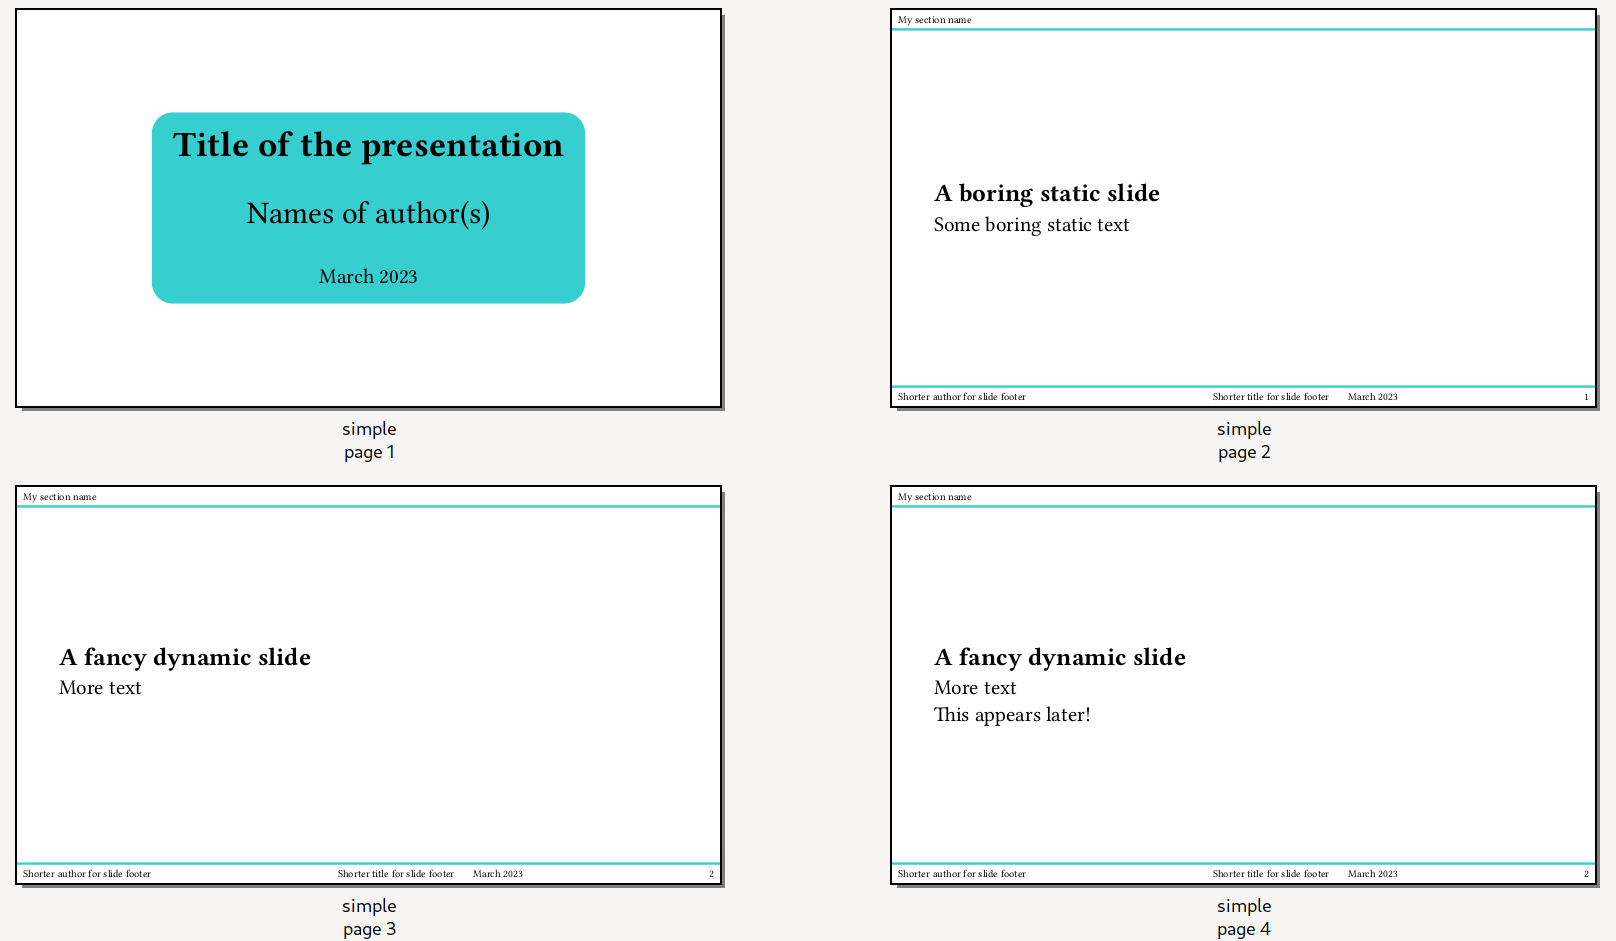
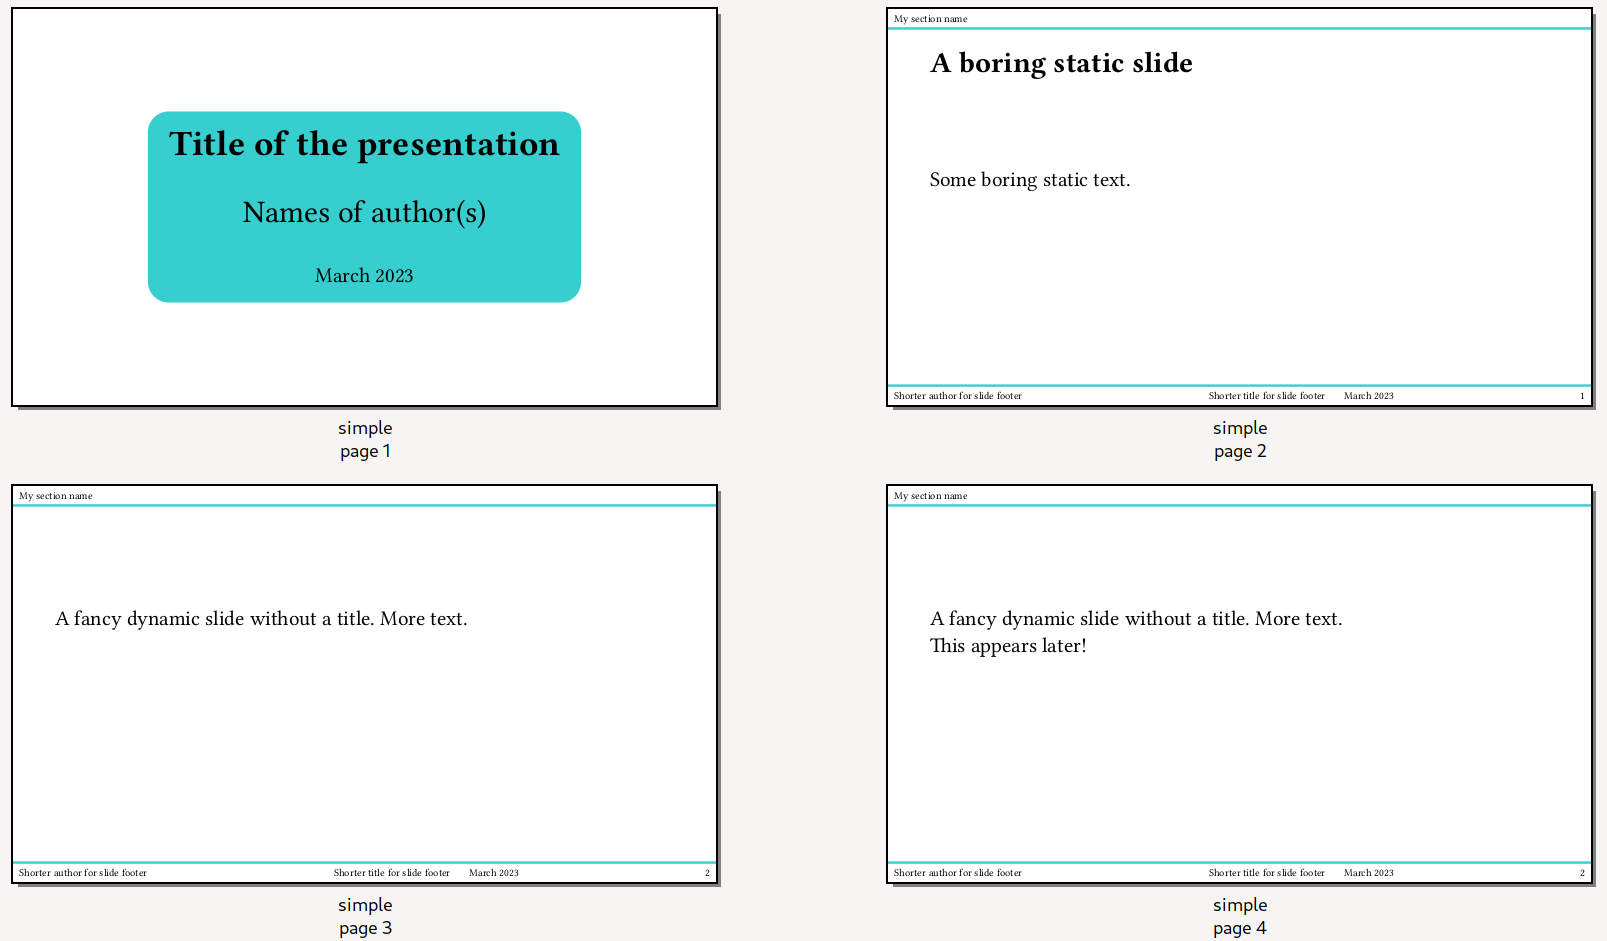
Adapt examples

diff --git a/README.md b/README.md
@@ -18,14 +18,13 @@ This is a template for creating slides in [Typst](https://typst.app/).
 
 #new-section("My section name")
 
-#slide[
-  == A boring static slide
-  Some boring static text
+#slide(title: "A boring static slide")[
+  Some boring static text.
 ]
 
 #slide[
-  == A fancy dynamic slide
-  More text
+  A fancy dynamic slide without a title.
+  More text.
   #only(2)[This appears later!]
 ]
 ```
